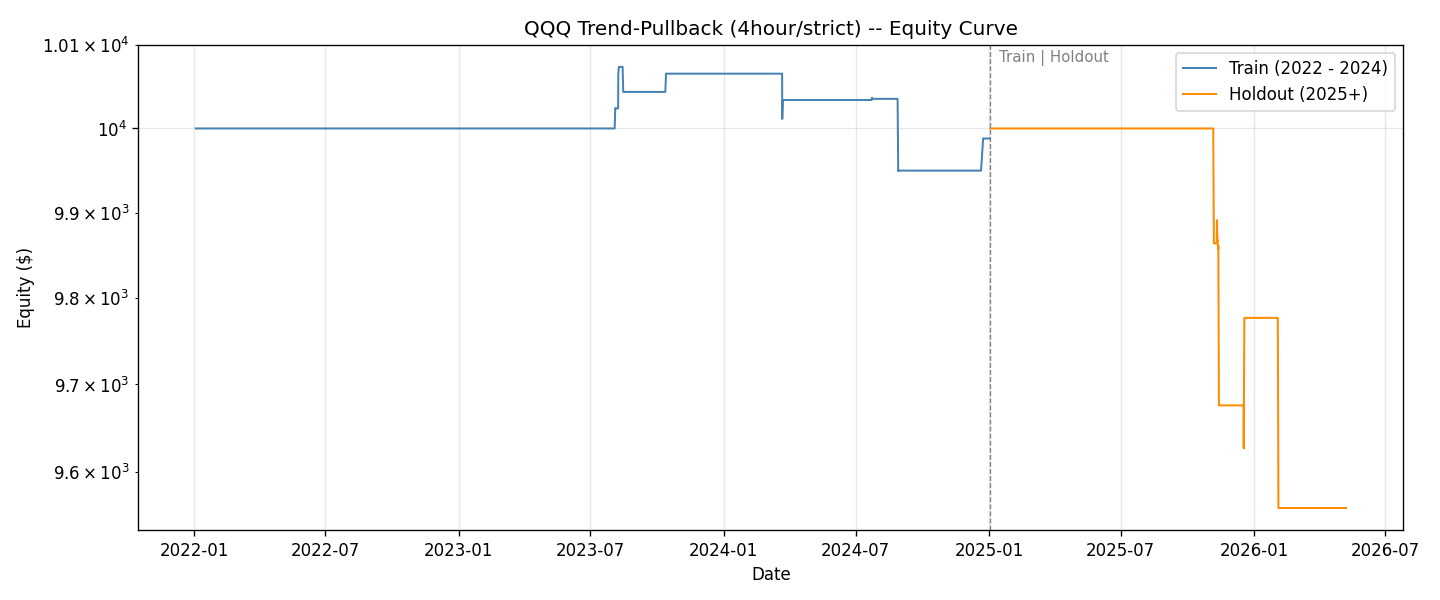
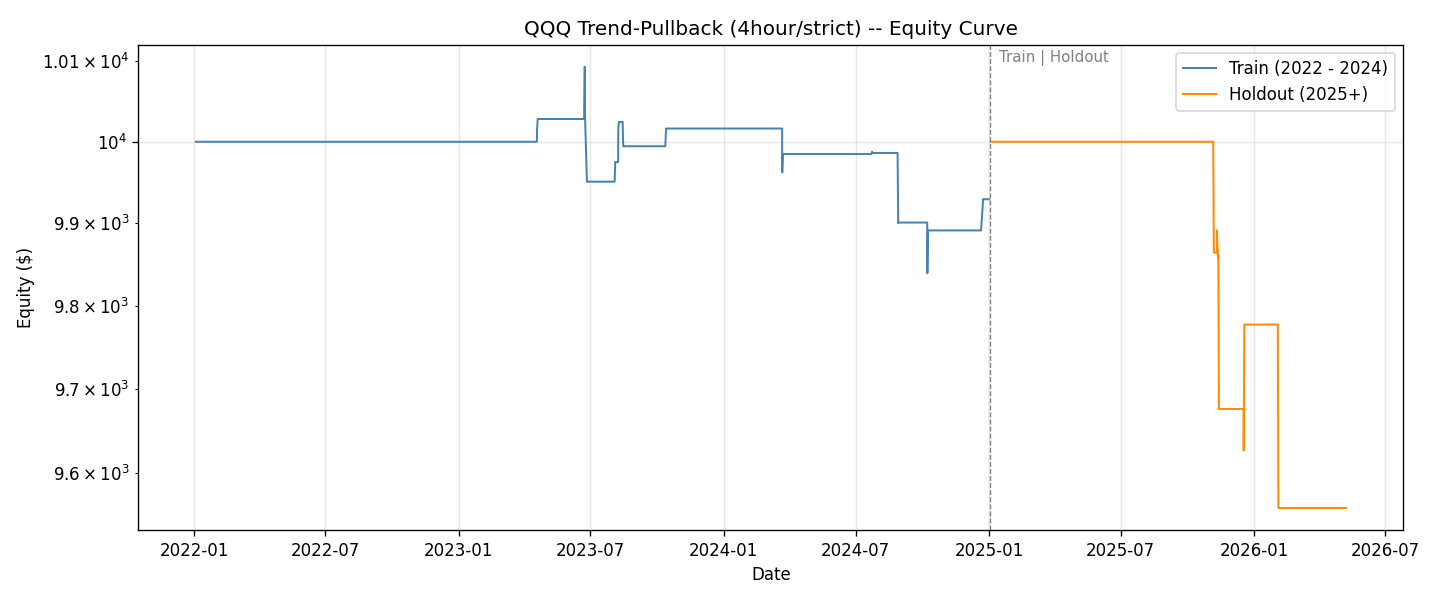
backtest: 2026-05-08T16:23:47Z

diff --git a/outputs/comparison.md b/outputs/comparison.md
@@ -6,9 +6,9 @@
 | 15min/loose | 0.000 | 0.000 | 0.000 | 0.000 | nan | nan | nan | nan | -0.000 | -0.000 | nan | nan | 0 | 0 | nan | nan |
 | 1hour/strict | 0.000 | 0.000 | 0.000 | 0.000 | nan | nan | nan | nan | -0.000 | -0.000 | nan | nan | 0 | 0 | nan | nan |
 | 1hour/loose | 4.616 | 0.828 | 1.522 | 0.619 | 75.000 | 50.000 | 29.130 | 2.333 | -0.553 | -1.503 | 0.939 | 0.426 | 4 | 6 | 4 days 06:00:00 | 0 days 16:00:00 |
-| 4hour/strict | -0.120 | -4.416 | -0.040 | -3.321 | 62.500 | 25.000 | 0.891 | 0.179 | -1.232 | -4.416 | -0.055 | -1.091 | 8 | 4 | 0 days 11:00:00 | 1 days 01:00:00 |
+| 4hour/strict | -0.706 | -4.416 | -0.237 | -3.321 | 54.545 | 25.000 | 0.698 | 0.179 | -2.512 | -4.416 | -0.236 | -1.091 | 11 | 4 | 0 days 19:00:00 | 1 days 01:00:00 |
 | 4hour/loose | -0.850 | 6.711 | -0.286 | 4.977 | 44.444 | 56.250 | 1.311 | 1.926 | -4.142 | -4.531 | -0.107 | 1.137 | 27 | 16 | 2 days 09:00:00 | 4 days 22:00:00 |
 
 _SPY buy & hold over full span: total **53.14%**, CAGR **10.32%**_
 
-_Generated: 2026-05-08T16:10:38.806311+00:00_
+_Generated: 2026-05-08T16:23:47.737002+00:00_

diff --git a/outputs/4hour/strict/stats.md b/outputs/4hour/strict/stats.md
@@ -2,13 +2,13 @@
 
 | Metric | Train | Holdout |
 |---|---|---|
-| Total Return [%] | -0.120 | -4.416 |
-| CAGR [%] | -0.040 | -3.321 |
-| Win Rate [%] | 62.500 | 25.000 |
-| Profit Factor | 0.891 | 0.179 |
-| Max Drawdown [%] | -1.232 | -4.416 |
-| Sharpe Ratio | -0.055 | -1.091 |
-| Total Trades | 8 | 4 |
-| Avg Trade Duration | 0 days 11:00:00 | 1 days 01:00:00 |
+| Total Return [%] | -0.706 | -4.416 |
+| CAGR [%] | -0.237 | -3.321 |
+| Win Rate [%] | 54.545 | 25.000 |
+| Profit Factor | 0.698 | 0.179 |
+| Max Drawdown [%] | -2.512 | -4.416 |
+| Sharpe Ratio | -0.236 | -1.091 |
+| Total Trades | 11 | 4 |
+| Avg Trade Duration | 0 days 19:00:00 | 1 days 01:00:00 |
 
-_Generated: 2026-05-08T16:10:36.268229Z_
+_Generated: 2026-05-08T16:23:45.613510Z_

diff --git a/outputs/4hour/loose/stats.md b/outputs/4hour/loose/stats.md
@@ -11,4 +11,4 @@
 | Total Trades | 27 | 16 |
 | Avg Trade Duration | 2 days 09:00:00 | 4 days 22:00:00 |
 
-_Generated: 2026-05-08T16:10:36.821707Z_
+_Generated: 2026-05-08T16:23:46.196469Z_

diff --git a/outputs/1hour/loose/stats.md b/outputs/1hour/loose/stats.md
@@ -11,4 +11,4 @@
 | Total Trades | 4 | 6 |
 | Avg Trade Duration | 4 days 06:00:00 | 0 days 16:00:00 |
 
-_Generated: 2026-05-08T16:10:30.127837Z_
+_Generated: 2026-05-08T16:23:42.011210Z_

diff --git a/outputs/15min/loose/stats.md b/outputs/15min/loose/stats.md
@@ -11,4 +11,4 @@
 | Total Trades | 0 | 0 |
 | Avg Trade Duration | nan | nan |
 
-_Generated: 2026-05-08T16:10:13.977948Z_
+_Generated: 2026-05-08T16:23:33.086150Z_

diff --git a/outputs/15min/strict/stats.md b/outputs/15min/strict/stats.md
@@ -11,4 +11,4 @@
 | Total Trades | 0 | 0 |
 | Avg Trade Duration | nan | nan |
 
-_Generated: 2026-05-08T16:10:12.414360Z_
+_Generated: 2026-05-08T16:23:31.384312Z_

diff --git a/outputs/1hour/strict/stats.md b/outputs/1hour/strict/stats.md
@@ -11,4 +11,4 @@
 | Total Trades | 0 | 0 |
 | Avg Trade Duration | nan | nan |
 
-_Generated: 2026-05-08T16:10:29.547151Z_
+_Generated: 2026-05-08T16:23:41.396065Z_
